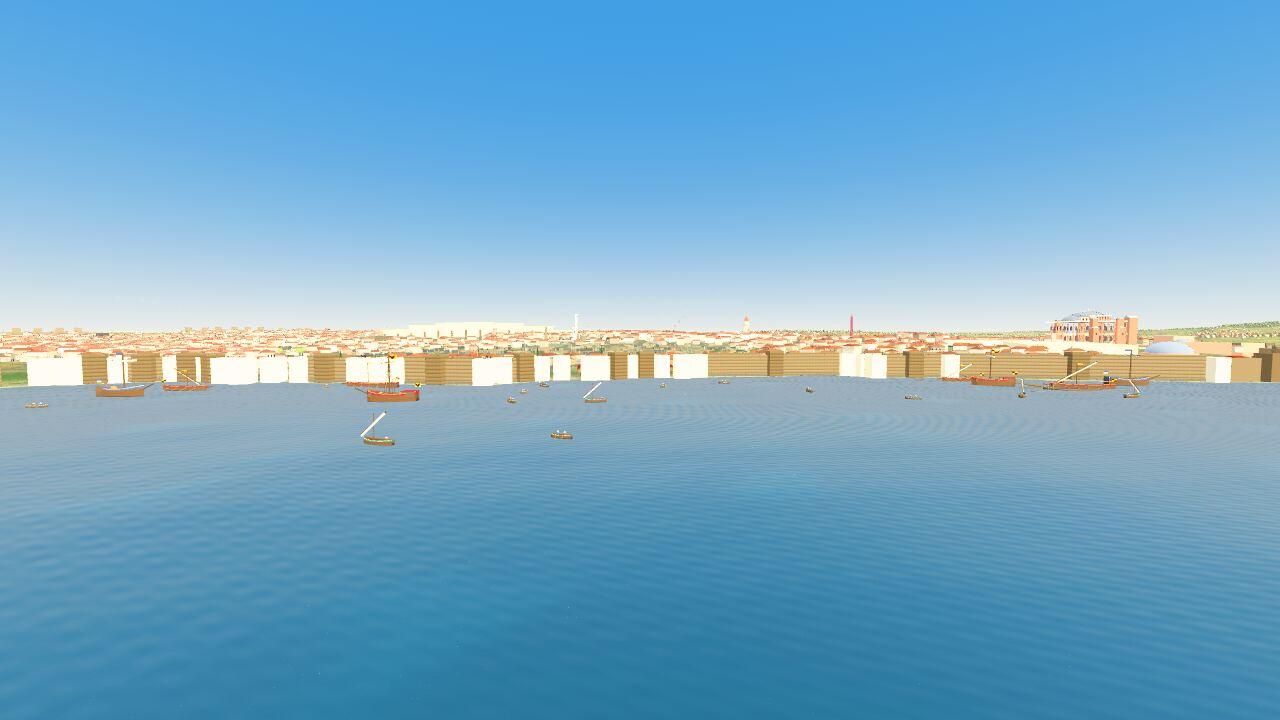
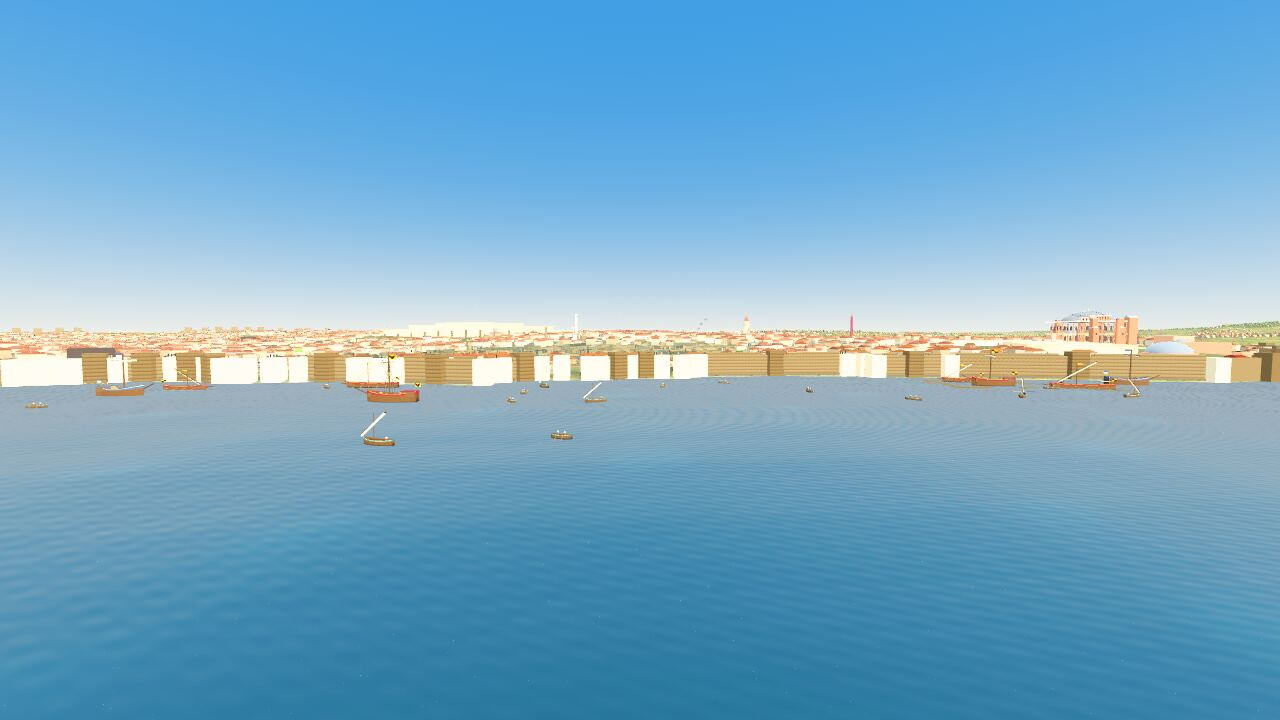
Ist2 dunya2: sahip kareleri yenilendi (07 meydan, 09 iskele), bolum 6/7/11 PASS
Claude-Session: https://claude.ai/code/session_01RAjzxKVbZYPDjpDJmbktv7

diff --git a/docs/_kanit_ist2_dunya2/rapor.md b/docs/_kanit_ist2_dunya2/rapor.md
@@ -15,7 +15,7 @@ Dal: `wip/ist2-dunya2` (taban `wip/ist2-taban2`; `wip/ist2-sehir2` ve `wip/ist2-
 | 3c | Zemin tek renk yeşil | DÜZELDİ (türlere göre renk + tarla parselleri; ayrıca uzaklıkla süt beyazına dönme giderildi) |
 | 4 | Karşı kıyılar ve ufuk dolu, Kız Kulesi | DÜZELDİ (31 768 öğe; Kız Kulesi küçük kale) |
 | 5 | `kare40`, gezi `bos=1` (ISTBOS) | DÜZELDİ; şehir içi %5,5 (hedef %0) → ŞEHİR/DOKU'ya rapor |
-| 6 | 14 sahip karesi | DÜZELDİ (`sahip_01…14`); 07 ve 09'un bakışı bu turun sonunda düzeltildi, kareleri sonraki turda yenilenir |
+| 6 | 14 sahip karesi | DÜZELDİ (`sahip_01…14`, 2. yenileme; 07 meydanın üstünden, 09 iskeleden) |
 | 7 | Uçuş bölümleri (7, 11) v2 dökümü | DÖKÜM (aşağıda; uygulama yok) |
 
 ## 1. Ölçek: `IstGeo.S = 0,35`, tek sabit
@@ -167,11 +167,12 @@ yerine `IstDunya.build` + `IstSehir.attach_v2`; (2) `flight_data` çağrıları 
 - `parse_check`: PASS (322 betik, birleşik dal). `world_check` PASS (13 bölge, 35 işaret), `city_check` PASS, `flight_check` PASS
   (eski dünya; dosyalarına dokunulmadı).
 - Yürüme sınaması (`kip=yuru_sina`, şehirsiz, S = 0,35): `yol=130 m alt_dusme=0 yerde_en_buyuk_fark=0.01`, yakalayıcı PASS.
-- Bölüm 6/7/11/12b/24 başsız: BAKILMADI (bu turda; eski dünya dosyaları değişmedi).
+- Bölüm 6, 7, 11 başsız `--autotest`: PASS (6a.1, 7.1, 11.2; yasak satır 0). 12b, 24: BAKILMADI.
 
 ## ORTAK BİLGİ / İSTEK
 
-- ŞEHİR-2: tam tepede koyu/siyah dikdörtgenler (sarnıç yerleri ve batıda) sürüyor; `IstGeo.mahalle` → `"sarnic"` kullanılabilir.
+- ŞEHİR-2: Ayasofya meydanı oyun alanının (`_meydan_rect`) içinde yerden (gerçek e −320, n 0) bakınca kamera revaklı bir yapının
+  (Mese portiği?) içinde kalıyor: alan boş değil. Tam tepede koyu/siyah dikdörtgenler (sarnıç yerleri ve batıda) sürüyor; `IstGeo.mahalle` → `"sarnic"` kullanılabilir.
   Sur dışı 30 m karesinde sur yüzünde havada beyaz dörtgenler (bayrak/levha?) var (`sahip_03`).
 - DOKU-2: şehir içi ISTBOS %5,5 (örnekler yukarıda). `mahalle` yeni alanı `alt` (bag/meyve/bostan/manastir/harabe/mezarlik).
 - Herkes: `IstGeo.X0/Z0/ST` artık `static var` (const değil); `IstDunya.CX0/CZ0/CNX/CNZ` de.
